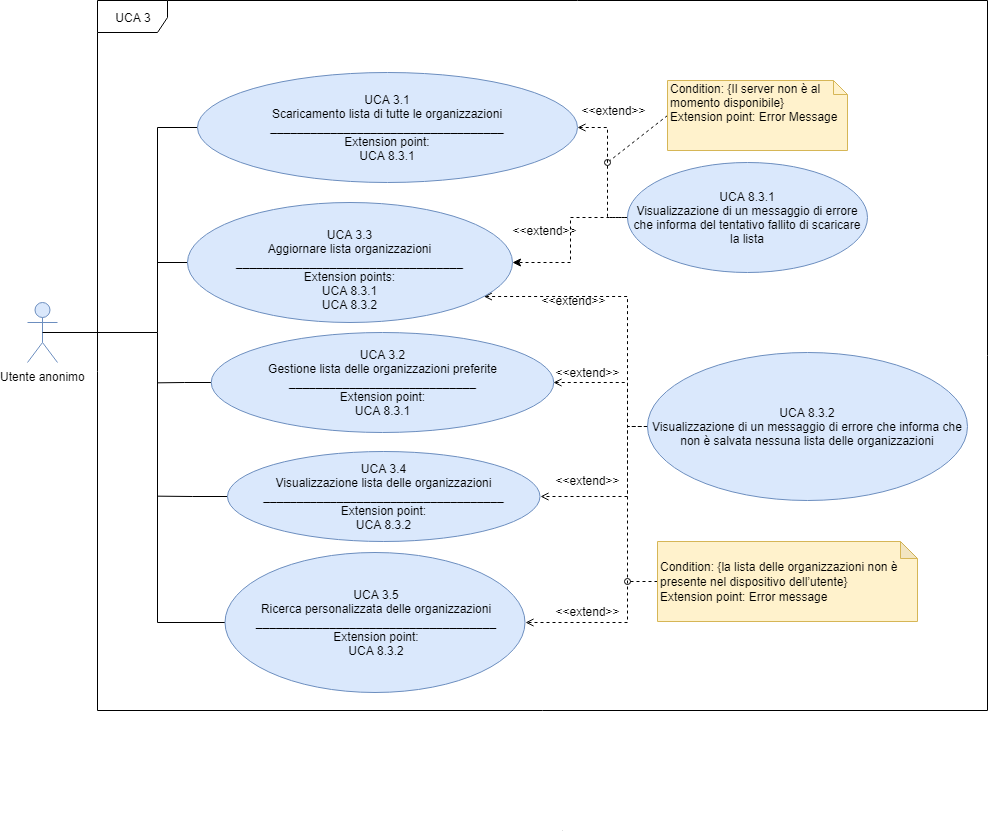
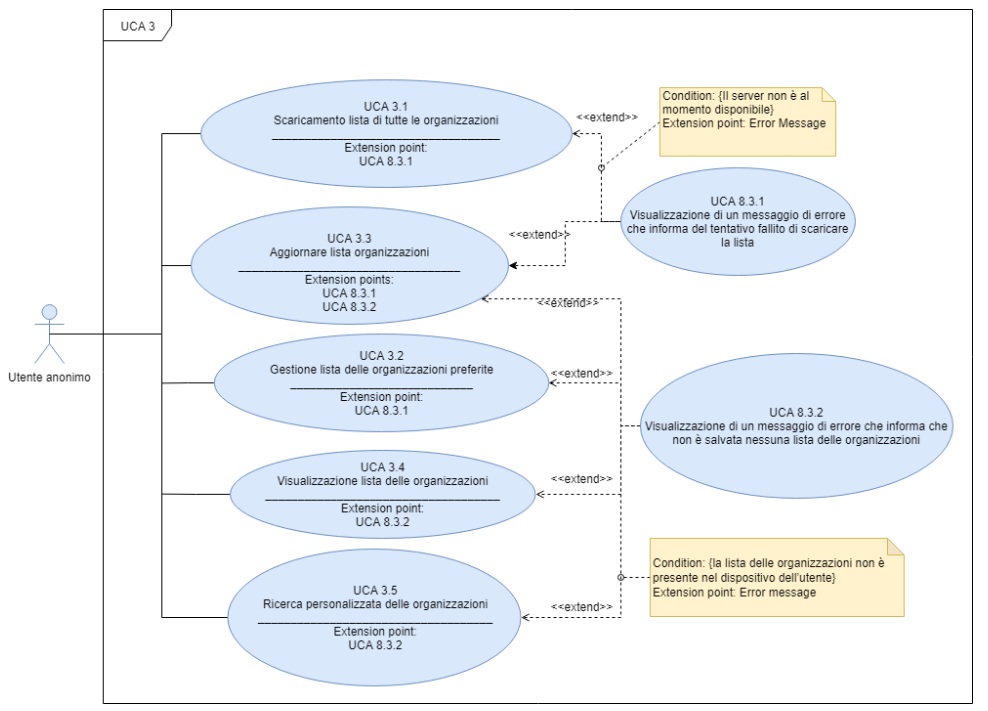
Fix schemi AR

diff --git a/DocumentazioneEsterna/AnalisiRequisiti/sezioni/UseCase/UCA6.tex b/DocumentazioneEsterna/AnalisiRequisiti/sezioni/UseCase/UCA6.tex
@@ -2,7 +2,7 @@
 
 \begin{figure}[h]
 	\centering
-	\includegraphics[scale=0.3]{sezioni/UseCase/Immagini/UCA6.png}
+	\includegraphics[scale=0.3, center]{sezioni/UseCase/Immagini/UCA6.png}
 	\caption{Tracciamento\ap{G} posizione in un luogo di un'organizzazione\ap{G}}
 \end{figure}
 
@@ -14,12 +14,14 @@
 	\item \textbf{Scenario principale:} L'utente si trova nei pressi o sta per uscire da un luogo dell'organizzazione\ap{G} che richiede il tracciamento\ap{G}. Viene salvato il timestamp\ap{G} di entrata ed uscita dall'organizzazione\ap{G} e viene salvato il tempo trascorso all'interno dell'organizzazione\ap{G}. L'utente riceve inoltre una notifica per l'entrata e l'uscita dall'organizzazione.
 \end{itemize}
 
+\subsubsection{UCA 6.1 - Tracciamento autenticato della posizione durante l'ingresso in un luogo di un'organizzazione}
+
 \begin{figure}[h]
 	\centering
-	\includegraphics[scale=0.4]{sezioni/UseCase/Immagini/UCA6.1.png}
+	\includegraphics[scale=0.4, center]{sezioni/UseCase/Immagini/UCA6.1.png}
 	\caption{Tracciamento\ap{G} autenticato della posizione durante l'ingresso in un luogo di un'organizzazione\ap{G}}
 \end{figure}
-\subsubsection{UCA 6.1 - Tracciamento autenticato della posizione durante l'ingresso in un luogo di un'organizzazione}
+
 \begin{itemize}
 	\item \textbf{Attori primari:} Utente riconosciuto
 	\item \textbf{Attori secondari:} Servizi/o di localizzazione (GPS\ap{G}, rete cellulare), server LDAP\ap{G} dell'organizzazione.
@@ -76,13 +78,15 @@
 	\item \textbf{Postcondizione:} Viene notificato l'utente dell'avvenuto salvataggio.
 \end{itemize}
 
+
+\subsubsection{UCA 6.2 - Tracciamento autenticato della posizione durante l'uscita da un luogo di un'organizzazione}
+
 \begin{figure}[h]
 	\centering
-	\includegraphics[scale=0.4]{sezioni/UseCase/Immagini/UCA6.2.png}
+	\includegraphics[scale=0.4, center]{sezioni/UseCase/Immagini/UCA6.2.png}
 	\caption{Tracciamento\ap{G} autenticato della posizione durante l'uscita in un luogo da un'organizzazione\ap{G}}
 \end{figure} 
 
-\subsubsection{UCA 6.2 - Tracciamento autenticato della posizione durante l'uscita da un luogo di un'organizzazione}
 \begin{itemize}
 	\item \textbf{Attori primari:} Utente riconosciuto
 	\item \textbf{Attori secondari:} Servizi/o di localizzazione (GPS\ap{G}, rete cellulare), server LDAP\ap{G} dell'organizzazione.

diff --git a/DocumentazioneEsterna/AnalisiRequisiti/sezioni/UseCase/UCA3.tex b/DocumentazioneEsterna/AnalisiRequisiti/sezioni/UseCase/UCA3.tex
@@ -2,7 +2,7 @@
 \subsubsection{UCA 3 - Gestione lista delle organizzazioni}%kite level
 \begin{figure}[h]
 	\centering
-	\includegraphics[scale=0.4, left]{sezioni/UseCase/Immagini/UCA3.png}
+	\includegraphics[scale=0.5, center]{sezioni/UseCase/Immagini/UCA3.png}
 	\caption{UCA 3 - Gestione lista delle organizzazioni}
 \end{figure} 
 
@@ -37,7 +37,7 @@
 \subsubsection{UCA 3.2 - Gestione lista delle organizzazioni preferite}%sea level
 \begin{figure}[h]
 	\centering
-	\includegraphics[scale=0.5]{sezioni/UseCase/Immagini/UCA3.2.png}
+	\includegraphics[scale=0.45 , center]{sezioni/UseCase/Immagini/UCA3.2.png}
 	\caption{UCA 3.2 - Gestione lista delle organizzazioni preferite}
 \end{figure}
 \begin{itemize}
@@ -103,7 +103,7 @@
 
 \begin{figure}[h]
 	\centering
-	\includegraphics[scale=0.5]{sezioni/UseCase/Immagini/UCA3.3.png}
+	\includegraphics[scale=0.5, center]{sezioni/UseCase/Immagini/UCA3.3.png}
 	\caption{UCA 3.3 - Aggiornare lista organizzazioni}
 \end{figure}
 
@@ -154,7 +154,7 @@
 
 \begin{figure}[h]
 	\centering	
-	\includegraphics[scale=0.5]{sezioni/UseCase/Immagini/UCA3.4.png}
+	\includegraphics[scale=0.45, center]{sezioni/UseCase/Immagini/UCA3.4.png}
 	\caption{UCA 3.4 - Visualizzazione lista delle organizzazioni}
 \end{figure}
 
@@ -226,7 +226,7 @@
 \begin{figure}[h]
 	\centering
 	
-	\includegraphics[scale=0.5]{sezioni/UseCase/Immagini/UCA3.5.png}
+	\includegraphics[scale=0.5,, center]{sezioni/UseCase/Immagini/UCA3.5.png}
 	\caption{UCA 3.5 - Ricerca personalizzata delle organizzazioni}
 \end{figure}
 \begin{itemize}

diff --git a/DocumentazioneEsterna/AnalisiRequisiti/sezioni/UseCase/UCA1.tex b/DocumentazioneEsterna/AnalisiRequisiti/sezioni/UseCase/UCA1.tex
@@ -17,7 +17,7 @@
 
 \begin{figure}[h]
   \centering
-    \includegraphics[scale=0.4]{sezioni/UseCase/Immagini/UCA1.1.png}
+    \includegraphics[scale=0.5, center]{sezioni/UseCase/Immagini/UCA1.1.png}
   \caption{UCA 1.1 - Autenticazione con credenziali Stalker}
 \end{figure}
 
@@ -59,7 +59,7 @@
 
 \begin{figure}[h]
   \centering
-    \includegraphics[scale=0.5]{sezioni/UseCase/Immagini/UCA1.2.png}
+    \includegraphics[scale=0.4, center]{sezioni/UseCase/Immagini/UCA1.2.png}
   \caption{UCA 1.2 -  Registrazione di account in Stalker}
 \end{figure}
 

diff --git a/DocumentazioneEsterna/AnalisiRequisiti/sezioni/UseCase/UCA7.tex b/DocumentazioneEsterna/AnalisiRequisiti/sezioni/UseCase/UCA7.tex
@@ -1,10 +1,10 @@
 \subsubsection{UCA 7 - Autenticazione con credenziali LDAP}%kite level
 
-\begin{figure}[h]
-	\centering
-	\includegraphics[scale=0.3]{sezioni/UseCase/Immagini/UCA6.png}
-	\caption{Tracciamento\ap{G} posizione in un luogo di un'organizzazione\ap{G}}
-\end{figure}
+%\begin{figure}[h]
+%	\centering
+%	\includegraphics[scale=0.5, center]{sezioni/UseCase/Immagini/UCA7.png}
+%	\caption{Tracciamento\ap{G} posizione in un luogo di un'organizzazione\ap{G}}
+%\end{figure}
 
 \begin{itemize}
 	\item \textbf{Attori primari:} Utente anonimo 

diff --git a/DocumentazioneEsterna/AnalisiRequisiti/sezioni/UseCase/UCA5.tex b/DocumentazioneEsterna/AnalisiRequisiti/sezioni/UseCase/UCA5.tex
@@ -1,7 +1,8 @@
 \subsubsection{UCA 5 - Monitoraggio dello storico degli accessi dell'utente}
+
 \begin{figure}[h]
 	\centering	
-	\includegraphics[scale=0.4, left]{sezioni/UseCase/Immagini/UCA5.png}
+	\includegraphics[scale=0.4, center]{sezioni/UseCase/Immagini/UCA5.png}
 	\caption{UCA 5 - Monitoraggio dello storico degli accessi dell'utente}
 \end{figure}
 

diff --git a/DocumentazioneEsterna/AnalisiRequisiti/sezioni/UseCase/UCA4.tex b/DocumentazioneEsterna/AnalisiRequisiti/sezioni/UseCase/UCA4.tex
@@ -3,7 +3,7 @@
 
 \begin{figure}[h]
 	\centering	
-	\includegraphics[scale=0.53]{sezioni/UseCase/Immagini/UCA4.png}
+	\includegraphics[scale=0.53, center]{sezioni/UseCase/Immagini/UCA4.png}
 	\caption{UCA 4 - Inserimento modalità di tracciamento}
 \end{figure}
 
